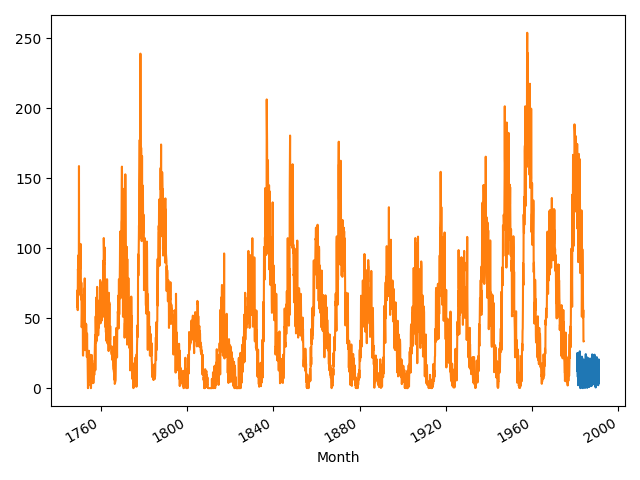
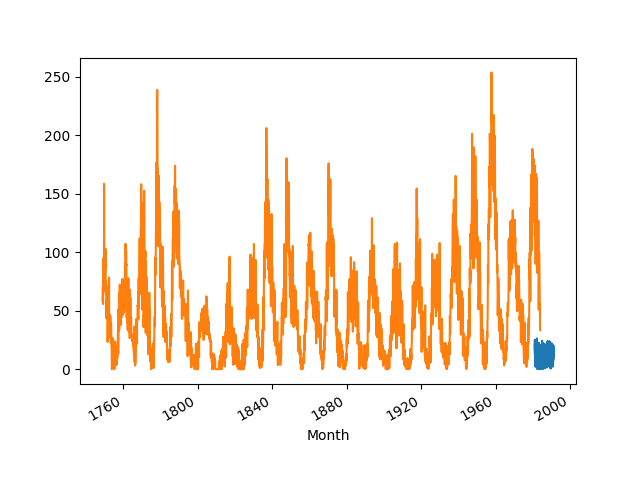
decomposition was completed

diff --git a/code/Tutorial-3.py b/code/Tutorial-3.py
@@ -1,0 +1,146 @@
+# Random Walk:random walk is different from a list of random numbers because the next value
+# in the sequence is a modification of the previous value in the sequence. (y(t) = B0 + B1*X(t-1) + e(t))
+# loading important libraries
+import pandas as pd
+from random import seed
+from random import random
+from matplotlib import pyplot
+from statsmodels.graphics.tsaplots import plot_acf
+from pandas.plotting import autocorrelation_plot
+from statsmodels.tsa.stattools import adfuller
+import numpy as np
+import matplotlib.pyplot as plt
+from statsmodels.tsa.ar_model import AutoReg
+from sklearn.metrics import mean_squared_error
+from math import sqrt
+
+seed(1)  # uses the seed value as a base to generate a random number.
+random_walk = list()
+random_walk.append(-1 if random() < 0.5 else 1)
+for i in range(1, 1000):
+    movement = -1 if random() < 0.5 else 1
+    value = random_walk[i - 1] + movement
+    random_walk.append(value)
+pyplot.plot(random_walk)
+pyplot.show()
+
+# ACF plot
+# autocorrelation_plot(random_walk)
+plot_acf(random_walk, lags=100)
+
+
+# 2. ADF Test
+# The null hypothesis of the test is that the time series can be represented by a unit root,
+# that it is not stationary (has some time-dependent structure).
+# The alternate hypothesis (rejecting the null hypothesis) is that the time series is stationary.
+# We interpret this result using the p-value from the test.
+# A p-value below a threshold (such as 5% or 1%) suggests we reject the null hypothesis (stationary),
+# otherwise a p-value above the threshold suggests we fail to reject the null hypothesis (non-stationary).
+result = adfuller(random_walk)
+print(result)
+print("ADF Statistic: %f" % result[0])
+print("p-value: %f" % result[1])
+for key, value in result[4].items():
+    print("\t%s: %.3f" % (key, value))
+
+# 3. Take the difference of the series to make it stationary
+random_walk1 = np.diff(np.array(random_walk))
+result = adfuller(random_walk1)
+print("ADF Statistic: %f" % result[0])
+print("p-value: %f" % result[1])
+for key, value in result[4].items():
+    print("\t%s: %.3f" % (key, value))
+
+# 4. Now compute the ACF for the stationary time series
+plot_acf(random_walk1, lags=100)
+
+
+train, test = (
+    random_walk[0 : len(random_walk) - 150],
+    random_walk[len(random_walk) - 150 :],
+)
+# train autoregression
+model = AutoReg(train, lags=1)
+model_fit = model.fit()
+print("Coefficients: %s" % model_fit.params)
+
+###############################################
+
+
+# reading the dataset
+series = pd.read_csv(
+    "/Users/saeedkazemi/OneDrive - University of New Brunswick/The fall Term 2020/ECE6563/codes/AirPassengers.csv"
+)
+# the dataset contains number of passengers per month between Jan 1949-Dec. 1960
+X = series["#Passengers"].values
+
+
+plt.plot(X, label="Passengers")
+plt.legend(loc="upper left")
+
+
+result = adfuller(X)
+print("ADF Statistic: %f" % result[0])
+print("p-value: %f" % result[1])
+for key, value in result[4].items():
+    print("\t%s: %.3f" % (key, value))
+
+# ACF Plot
+plot_acf(X, lags=50)
+# x = pd.plotting.autocorrelation_plot(X)
+
+# check the transformed series
+# 1. Transformation
+series["#Passengers_log"] = np.log(series["#Passengers"])
+# series['#Passengers_log'].dropna().plot(label="Log Difference")
+X_lg = series["#Passengers_log"]
+result = adfuller(X_lg)
+print("ADF Statistic: %f" % result[0])
+print("p-value: %f" % result[1])
+for key, value in result[4].items():
+    print("\t%s: %.3f" % (key, value))
+
+plot_acf(X_lg, lags=50)
+
+# 2. Lets take first difference
+X_lg_1diff = np.diff(X_lg, 1)
+result = adfuller(X_lg_1diff)
+print("ADF Statistic: %f" % result[0])
+print("p-value: %f" % result[1])
+for key, value in result[4].items():
+    print("\t%s: %.3f" % (key, value))
+plot_acf(X_lg_1diff, lags=50)
+
+# 3. Lets take 12th difference
+X_lg_12diff = np.diff(X_lg_1diff, 12)
+result = adfuller(X_lg_12diff)
+print("ADF Statistic: %f" % result[0])
+print("p-value: %f" % result[1])
+for key, value in result[4].items():
+    print("\t%s: %.3f" % (key, value))
+
+plot_acf(X_lg_12diff, lags=50)
+
+
+# 4. AR model
+
+train, test = (
+    X_lg_12diff[0 : len(X_lg_12diff) - 15],
+    X_lg_12diff[len(X_lg_12diff) - 15 :],
+)
+# train autoregression
+model = AutoReg(train, lags=1)
+model_fit = model.fit()
+print("Coefficients: %s" % model_fit.params)
+# make predictions
+predictions = model_fit.predict(
+    start=len(X_lg_12diff) - 14, end=len(X_lg_12diff), dynamic=False
+)
+for i in range(len(predictions)):
+    print("predicted=%f, expected=%f" % (predictions[i], test[i]))
+rmse = sqrt(mean_squared_error(test, predictions))
+print("Test RMSE: %.3f" % rmse)
+# plot results
+pyplot.plot(test)
+pyplot.plot(predictions, color="red")
+pyplot.show()

diff --git a/code/Ass1.py b/code/Ass1.py
@@ -4,20 +4,15 @@ import os
 import matplotlib.pyplot as plt
 import pandas as pd
 import statsmodels.api as sm
-from statsmodels.tsa.seasonal import STL
 from matplotlib import pyplot as plt
 from pandas import read_csv
+from statsmodels.tsa.stattools import adfuller
+from statsmodels.graphics.tsaplots import plot_acf
+from statsmodels.tsa import seasonal
 
-# from pandas import datetime
-
-
-# def parser(x):
-#     return datetime.strptime(
-#         "190" + x, "%Y-%m"
-#     )  # method creates a datetime object from the given string.
 
 print("[INFO] Setting directories")
-project_dir = os.getcwd()  # os.path.dirname
+project_dir = os.getcwd()
 fig_dir = os.path.join(project_dir, "manuscript", "src", "figures")
 tbl_dir = os.path.join(project_dir, "manuscript", "src", "tables")
 data_dir = os.path.join(project_dir, "Dataset")
@@ -33,17 +28,16 @@ series_temp = read_csv(
     index_col=0,
     squeeze=True,
 )
+
 print("[INFO] Saving and showing the plot of the second dataset")
 series_temp.plot()
-plt.tight_layout()
 plt.savefig(os.path.join(fig_dir, "temp.png"))
 # plt.show()
 
 print("[INFO] Saving and printing the head of the first dataset")
-print(series_temp.head())  # used to print 5 top values
-temp_head = series_temp.head()
+print(series_temp.head(15))
 with open(os.path.join(tbl_dir, "temp_head.tex"), "w") as tf:
-    tf.write(temp_head.to_latex(index=True))
+    tf.write(series_temp.head(7).to_latex(index=True))
 
 
 print("[INFO] Reading the second dataset")
@@ -57,20 +51,54 @@ series_sun = read_csv(
 
 print("[INFO] Saving and showing the plot of the second dataset")
 series_sun.plot()
-plt.tight_layout()
 plt.savefig(os.path.join(fig_dir, "sun.png"))
 # plt.show()
 
 print("[INFO] Saving and printing the head of the second dataset")
-print(series_sun.head())
-sun_head = series_sun.head()
 with open(os.path.join(tbl_dir, "sun_head.tex"), "w") as tf:
-    tf.write(sun_head.to_latex(index=True))
+    tf.write(series_sun.head(7).to_latex(index=True))
 
-print(series_temp.shape)
-series_temp = series_temp.resample("Y").mean().ffill()
-print(series_sun.head(15))
+# Decompositions
 
-res = STL(series_sun).fit()
-res.plot()
-plt.show()
+# seasonal_decompose(x[, model, filt, period, …])   Seasonal decomposition using moving averages.
+# STL(endog[, period, seasonal, trend, …])          Season-Trend decomposition using LOESS.
+
+
+## Multiplicative Decomposition
+## Multiplicative seasonality is not appropriate for zero and negative values
+
+# Plot Decomposition by seasonal_decompose method
+decomposition_sd = seasonal.seasonal_decompose(
+    series_temp, model="additive", extrapolate_trend="freq", period=365
+)
+fig = decomposition_sd.plot()
+fig.set_size_inches(14, 7)
+plt.savefig(os.path.join(fig_dir, "1-temp_seasonal_decompose.png"))
+# plt.show()
+
+# Plot Decomposition by STL method
+decomposition_STL = seasonal.STL(series_temp, period=365).fit()
+fig = decomposition_STL.plot()
+fig.set_size_inches(14, 7)
+plt.savefig(os.path.join(fig_dir, "1-temp_STL.png"))
+# plt.show()
+
+
+# ACF plot
+plot_acf(decomposition_sd.resid, lags=100)
+
+# ADF Test
+result = adfuller(series_temp)
+print(result)
+print("ADF Statistic: %f" % result[0])
+print("p-value: %f" % result[1])
+for key, value in result[4].items():
+    print("\t%s: %.3f" % (key, value))
+
+# The p-value is obtained is greater than significance level of 0.05 and
+# the ADF statistic is higher than any of the critical values.
+# Clearly, there is no reason to reject the null hypothesis. So,
+# the time series is in fact non-stationary.
+
+# The p-value is very less than the significance level of 0.05 and
+# hence we can reject the null hypothesis and take that the series is stationary.

diff --git a/manuscript/src/tables/sun_head.tex b/manuscript/src/tables/sun_head.tex
@@ -8,5 +8,7 @@ Month      &           \\
 1749-03-01 &      70.0 \\
 1749-04-01 &      55.7 \\
 1749-05-01 &      85.0 \\
+1749-06-01 &      83.5 \\
+1749-07-01 &      94.8 \\
 \bottomrule
 \end{tabular}

diff --git a/manuscript/src/tables/temp_head.tex b/manuscript/src/tables/temp_head.tex
@@ -8,5 +8,7 @@ Date       &       \\
 1981-01-03 &  18.8 \\
 1981-01-04 &  14.6 \\
 1981-01-05 &  15.8 \\
+1981-01-06 &  15.8 \\
+1981-01-07 &  15.8 \\
 \bottomrule
 \end{tabular}
